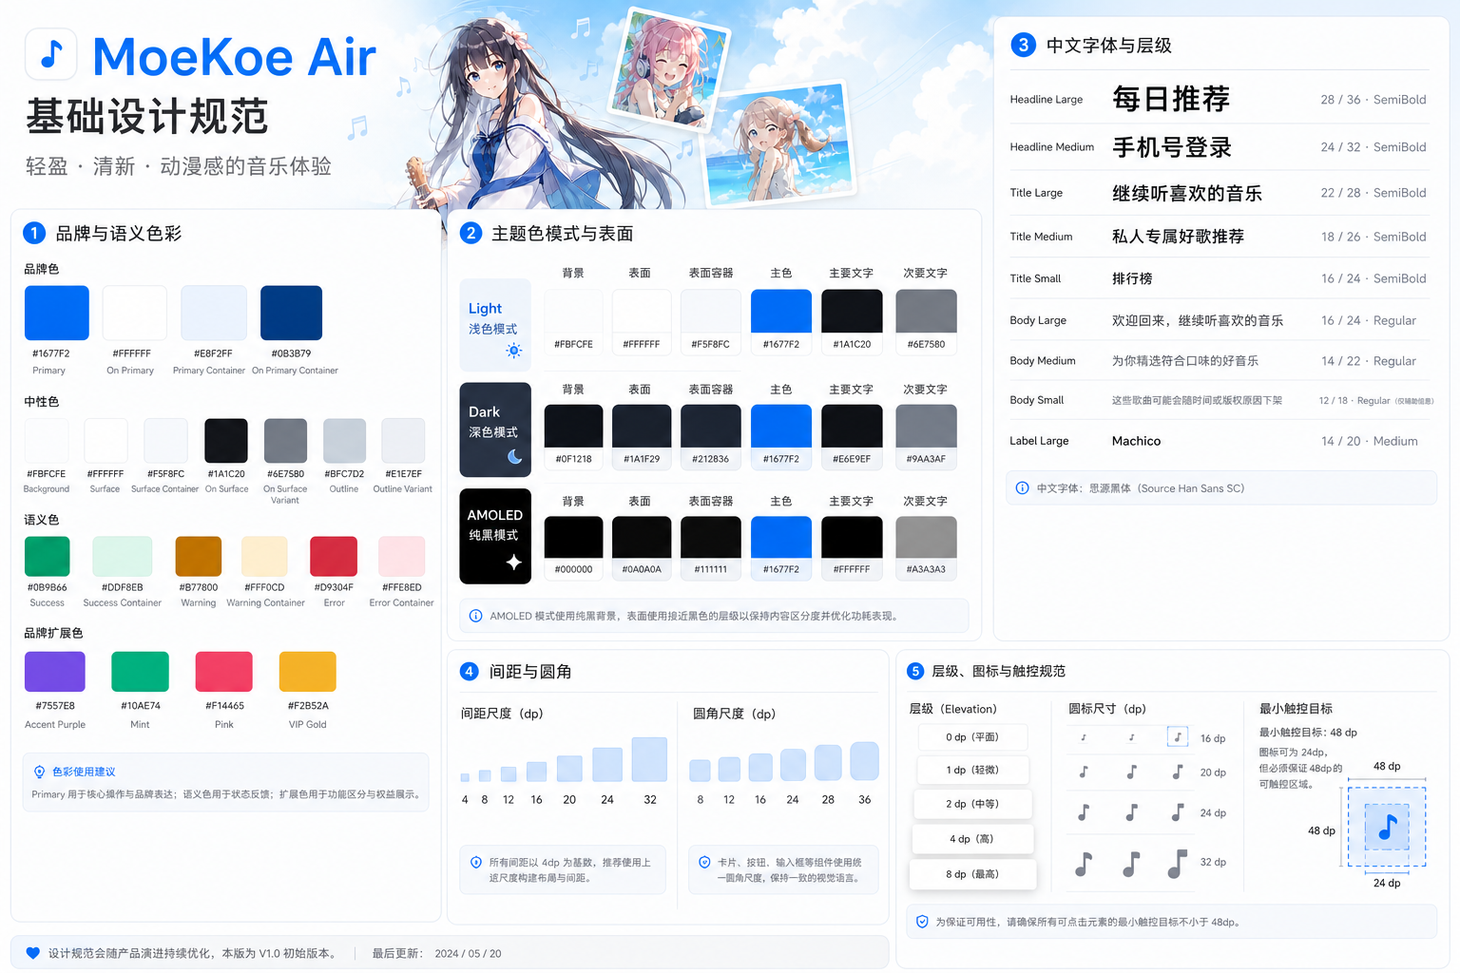
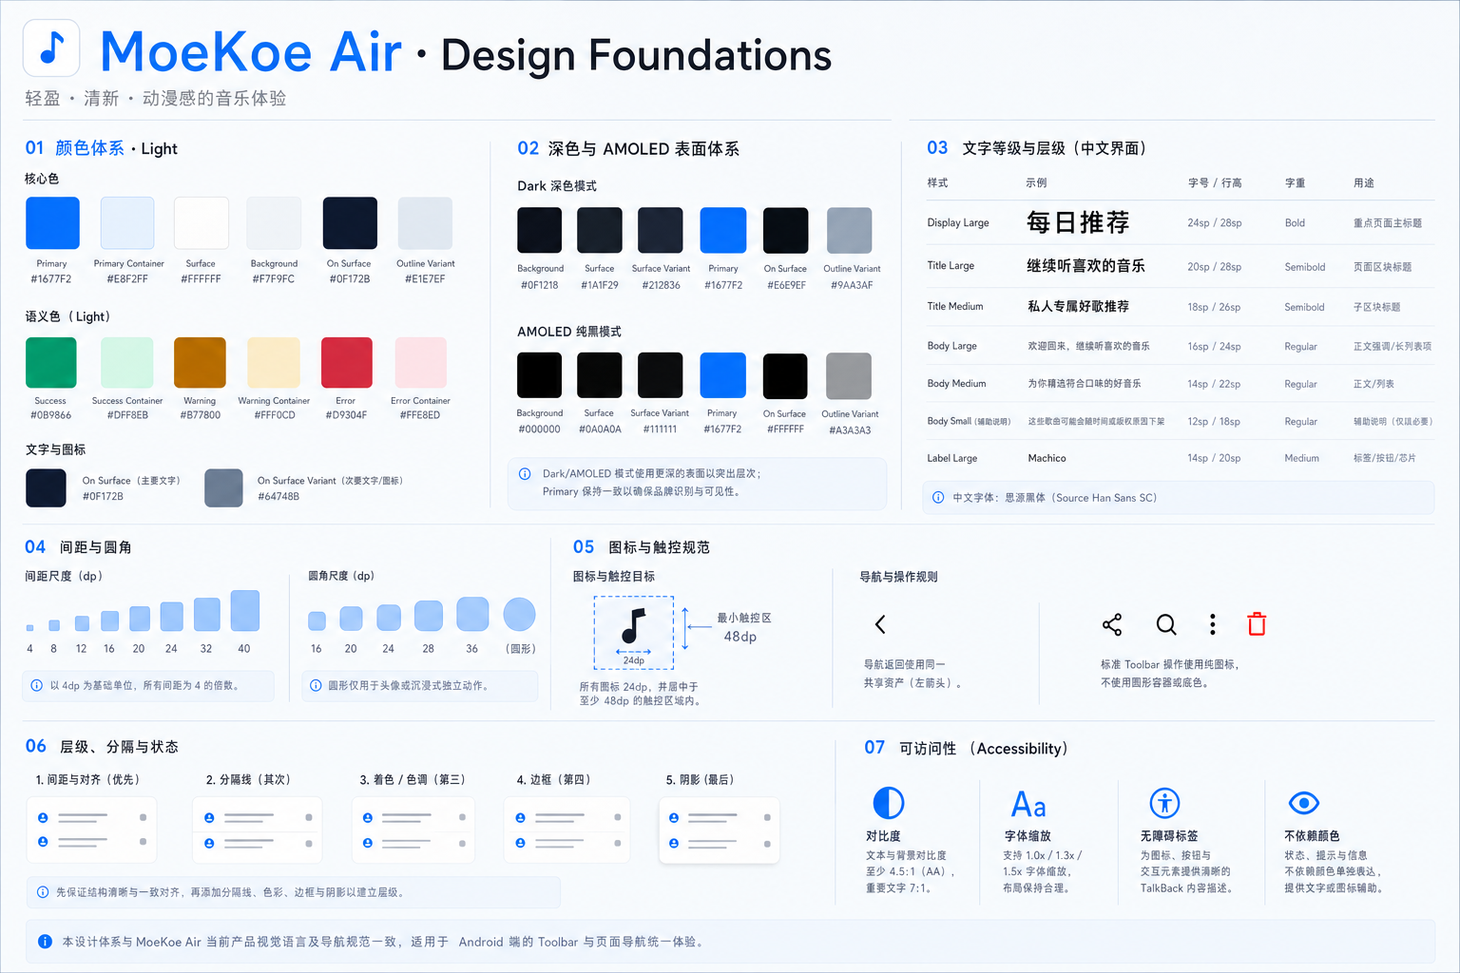
docs(design): promote refreshed system baselines

diff --git a/docs/DESIGN_SYSTEM.md b/docs/DESIGN_SYSTEM.md
@@ -1,20 +1,19 @@
 # MoeKoe Air Design System
 
-状态：第一版视觉方向已确认；Toolbar 与 `09`、`14` 至 `18` 的修订候选稿待确认。确认日期：2026-08-05；Toolbar 规范修订日期：2026-08-07。
+状态：第一版视觉方向，以及 `09`、`14` 至 `18` 的修订稿均已确认。初次确认日期：2026-08-05；本轮修订确认日期：2026-08-07。
 
 本文是颜色语义、交互状态、无障碍下限和通用组件行为的真值。已确认页面设计图是该页面结构、坐标、视觉尺寸比例、间距、圆角、层级和裁切的真值；页面专属几何必须按页面适配契约测量和映射，不能用通用 Token 或实现者经验覆盖。设计稿中的自动生成文字、日期和业务数据仍不是真值。
 
 公共组件的当前清单见 [`UI_COMPONENT_CATALOG.md`](UI_COMPONENT_CATALOG.md)，准入、所有权与迁移依据见 [`reference-audits/17-design-system-components.md`](reference-audits/17-design-system-components.md)。
 
-当前已确认的标准 Toolbar 视觉基准为 [`10-user-profile.png`](design/mockups/10-user-profile.png)。旧 `09`、`14` 至 `18` 暂停作为实现基线，修订候选稿见 [`design-system-v2`](design/mockups/candidates/design-system-v2/README.md)；用户确认前不得用候选稿反向修改 Compose。
+当前已确认的标准 Toolbar 视觉基准为 [`10-user-profile.png`](design/mockups/10-user-profile.png)，设置与通用组件正式基线为 `09`、`14` 至 `18`：
 
-修订候选视觉参考：
-
-- [`14-design-foundations-v2.png`](design/mockups/candidates/design-system-v2/14-design-foundations-v2.png)
-- [`15-toolbar-navigation-v2.png`](design/mockups/candidates/design-system-v2/15-toolbar-navigation-v2.png)
-- [`16-actions-inputs-v2.png`](design/mockups/candidates/design-system-v2/16-actions-inputs-v2.png)
-- [`17-music-content-components-v2.png`](design/mockups/candidates/design-system-v2/17-music-content-components-v2.png)
-- [`18-mobile-states-overlays-v2.png`](design/mockups/candidates/design-system-v2/18-mobile-states-overlays-v2.png)
+- [`09-settings.png`](design/mockups/09-settings.png)
+- [`14-design-foundations.png`](design/mockups/14-design-foundations.png)
+- [`15-toolbar-navigation.png`](design/mockups/15-toolbar-navigation.png)
+- [`16-actions-inputs.png`](design/mockups/16-actions-inputs.png)
+- [`17-music-content-components.png`](design/mockups/17-music-content-components.png)
+- [`18-mobile-states-overlays.png`](design/mockups/18-mobile-states-overlays.png)
 
 ## 设计原则
 
@@ -176,7 +175,7 @@
 
 `10-user-profile.png` 是标准 Toolbar 的坐标与视觉母版：设计图保留顶部系统安全区留白，但不自行绘制时间、信号、Wi-Fi 或电池图形；运行时系统栏仍由 Android 绘制。无尾部操作的设置页沿用同一标题基线、左侧 Chevron 锚点和内容起点，只把尾部操作替换为对称空槽。返回图形必须使用共享 `MoeNavigateBackIcon` 的无横杆圆端 Chevron，不得换成带水平箭杆的 Material ArrowBack。
 
-设置页候选稿采用固定宽度、内容驱动高度的完整展开画布：宽度用于建立横向设计坐标，高度随全部设置分组自然增长，用来表达页面可纵向滚动，不代表某台设备的固定视口。不得为了把全部内容塞进一屏而压缩下方分组或单个 Item。运行时标准 Toolbar 处理自身 Insets，设置内容由一个纵向滚动容器承载；短视口只改变可见范围，不改变 Item 密度。
+设置页正式设计稿采用固定宽度、内容驱动高度的完整展开画布：宽度用于建立横向设计坐标，高度随全部设置分组自然增长，用来表达页面可纵向滚动，不代表某台设备的固定视口。不得为了把全部内容塞进一屏而压缩下方分组或单个 Item。运行时标准 Toolbar 处理自身 Insets，设置内容由一个纵向滚动容器承载；短视口只改变可见范围，不改变 Item 密度。
 
 ### 底部结构
 
@@ -228,7 +227,7 @@ Dialog、Snackbar 和 Toast 的完整语义规则见 [`UI_COMPONENTS.md`](UI_COM
 - Typography 已补齐 `24sp`、`18sp`、`titleSmall`、`bodySmall` 等层级。
 - Spacing 已补齐 `12dp`、`20dp` 和 `40dp`，并保留旧属性兼容现有页面。
 - Shapes 已增加 `36dp` Hero 语义，图标、触控、输入、Toolbar、MiniPlayer 和底部导航尺寸已建立 Token。
-- 已有标准 Toolbar、沉浸式 Toolbar 和沉浸式 IconButton 实现，但现有标准 Toolbar 仍是 Material 默认起始对齐标题，且导航入口只支持返回；在 `design-system-v2` 候选稿确认前不扩散使用，确认后需增加调用方自定义导航图标能力并改为页面中心锚定标题。搜索、折叠和多选 Toolbar 在真实消费者接入时继续完成。
+- 已有标准 Toolbar、沉浸式 Toolbar 和沉浸式 IconButton 实现，但现有标准 Toolbar 仍是 Material 默认起始对齐标题，且导航入口只支持返回；下一公共组件切片需按已确认 `15-toolbar-navigation.png` 增加调用方自定义导航图标能力并改为页面中心锚定标题。搜索、折叠和多选 Toolbar 在真实消费者接入时继续完成。
 - 已建立 `MoeSectionHeader`、`MoeArtwork`、`MoeMediaBadge`、`MoeSongRow`、`MoeMiniPlayer` 与 `MoeQueueRow`；搜索、本地音乐和应用播放壳已经消费同一套组件。
 - 歌曲行在 `1.5×` 字体下增加行高并将时长并入副标题行，避免标题、时长和尾部操作互相覆盖；浅色、深色与大字体截图基准已通过。
 - Button、TextField、标准/沉浸式 Toolbar、标准 Dialog 外壳与双操作区已进入 `:core:designsystem`；标准 Toolbar 和 Dialog 已有多个真实页面消费者。Snackbar Host、Input Dialog、Bottom Sheet、MoeToast 和页面状态组件继续随真实消费者落地，不预先建立万能 API。队列拖拽属于播放器后续切片。

diff --git a/docs/DEVELOPMENT_PLAN.md b/docs/DEVELOPMENT_PLAN.md
@@ -52,7 +52,7 @@
 
 ## UI 实现基线
 
-以下设计稿是第一版实现基线，旧稿仅保留讨论记录。标记为“待确认”的 `design-system-v2` 项目是本轮替换候选，确认前不得驱动 Compose 改造：
+以下设计稿是第一版实现基线，旧稿仅保留讨论记录；`09` 与 `14` 至 `18` 的修订稿已于 2026-08-07 确认并替换正式文件：
 
 | 页面 | 验收设计稿 | 关键约束 |
 | --- | --- | --- |
@@ -64,16 +64,16 @@
 | 播放封面 | [`06-player-cover.png`](design/mockups/06-player-cover.png) | 参考 Kreate 的沉浸氛围，不照搬其品牌元素 |
 | 播放歌词 | [`07-player-lyrics.png`](design/mockups/07-player-lyrics.png) | 与封面共享手势和播放控制 |
 | 播放队列 | [`08-player-queue.png`](design/mockups/08-player-queue.png) | 手机使用 Material 3 Bottom Sheet |
-| 设置 | [`design-system-v2/09-settings-v2.png`](design/mockups/candidates/design-system-v2/09-settings-v2.png)（待确认） | 内容沿用分组式可滚动设置页；Toolbar 以 `10-user-profile` 为基准居中；长画布不压缩下方 Item |
+| 设置 | [`09-settings.png`](design/mockups/09-settings.png) | 内容沿用分组式可滚动设置页；Toolbar 以 `10-user-profile` 为基准居中；长画布不压缩下方 Item |
 | 用户主页 | [`10-user-profile.png`](design/mockups/10-user-profile.png) | 与“我的”分离，不重复工具入口 |
 | Dialog | [`11-dialog-components.png`](design/mockups/11-dialog-components.png) | 统一形状、操作顺序和遮罩 |
 | 反馈组件 | [`12-feedback-components-v2.png`](design/mockups/12-feedback-components-v2.png) | 自定义 Snackbar、受限 MoeToast |
 | 登录主状态 | [`13-login-phone-immersive.png`](design/mockups/13-login-phone-immersive.png) | 沉浸式顶部；无重复标题；三种登录方式共享表单结构 |
-| 基础 Token | [`14-design-foundations-v2.png`](design/mockups/candidates/design-system-v2/14-design-foundations-v2.png)（待确认） | 数值仍以 `DESIGN_SYSTEM.md` 为准 |
-| Toolbar 与导航 | [`15-toolbar-navigation-v2.png`](design/mockups/candidates/design-system-v2/15-toolbar-navigation-v2.png)（待确认） | 标准态页面中心标题、可替换导航图标；沉浸式仅作 Hero/封面例外 |
-| 操作与输入 | [`16-actions-inputs-v2.png`](design/mockups/candidates/design-system-v2/16-actions-inputs-v2.png)（待确认） | Material Icons 优先；Filled 禁用态与登录确认稿一致；输入图标可见方形背景不填满输入框高度 |
-| 音乐内容组件 | [`17-music-content-components-v2.png`](design/mockups/candidates/design-system-v2/17-music-content-components-v2.png)（待确认） | 保持紧凑列表与连续 MiniPlayer，不将所有内容卡片化 |
-| 页面状态与覆盖层 | [`18-mobile-states-overlays-v2.png`](design/mockups/candidates/design-system-v2/18-mobile-states-overlays-v2.png)（待确认） | 系统居中白色 Dialog、Tonal 取消与贴底 Bottom Sheet |
+| 基础 Token | [`14-design-foundations.png`](design/mockups/14-design-foundations.png) | 数值仍以 `DESIGN_SYSTEM.md` 为准 |
+| Toolbar 与导航 | [`15-toolbar-navigation.png`](design/mockups/15-toolbar-navigation.png) | 标准态页面中心标题、可替换导航图标；沉浸式仅作 Hero/封面例外 |
+| 操作与输入 | [`16-actions-inputs.png`](design/mockups/16-actions-inputs.png) | Material Icons 优先；Filled 禁用态与登录确认稿一致；输入图标可见方形背景不填满输入框高度 |
+| 音乐内容组件 | [`17-music-content-components.png`](design/mockups/17-music-content-components.png) | 保持紧凑列表与连续 MiniPlayer，不将所有内容卡片化 |
+| 页面状态与覆盖层 | [`18-mobile-states-overlays.png`](design/mockups/18-mobile-states-overlays.png) | 系统居中白色 Dialog、Tonal 取消与贴底 Bottom Sheet |
 | 密码登录与风控 | [`login-v2` 已确认稿](design/mockups/candidates/login-v2/README.md#19--密码登录) | 凭据错误内联，风险确认使用居中 Dialog |
 | 扫码登录状态 | [`login-v2` 已确认稿](design/mockups/candidates/login-v2/README.md#20--扫码登录) | 生成、等待、已扫码、过期和失败分别建模 |
 | 登录安全验证 | [`login-v2` 已确认稿](design/mockups/candidates/login-v2/README.md#21--风险验证) | 短信 Dialog 与隔离腾讯验证保持安全边界 |

diff --git a/docs/design/mockups/README.md b/docs/design/mockups/README.md
@@ -19,16 +19,16 @@
 6. [`06-player-cover.png`](06-player-cover.png)：Kreate 启发的封面播放器。
 7. [`07-player-lyrics.png`](07-player-lyrics.png)：逐字歌词、翻译和音译展示基准。
 8. [`08-player-queue.png`](08-player-queue.png)：播放队列 Bottom Sheet。
-9. [`09-settings.png`](09-settings.png)：旧 Toolbar 版本，已暂停实现基线资格；修订稿见 [`design-system-v2`](candidates/design-system-v2/README.md)。
+9. [`09-settings.png`](09-settings.png)：已确认的分组式可滚动设置页，使用标准 Toolbar 与等高设置 Item。
 10. [`10-user-profile.png`](10-user-profile.png)：独立用户主页、社交统计、听歌概览和公开创建歌单。
 11. [`11-dialog-components.png`](11-dialog-components.png)：确认、提示、危险操作和文本输入 Dialog。
 12. [`12-feedback-components-v2.png`](12-feedback-components-v2.png)：品牌化 MoeSnackbar、应用内 MoeToast 与系统 Toast 边界。
 13. [`13-login-phone-immersive.png`](13-login-phone-immersive.png)：沉浸式手机号验证码登录主状态；密码、扫码和安全验证沿用同一视觉结构。
-14. [`14-design-foundations.png`](14-design-foundations.png)：旧版基础图板，已暂停实现基线资格；修订稿见 [`design-system-v2`](candidates/design-system-v2/README.md)。
-15. [`15-toolbar-navigation.png`](15-toolbar-navigation.png)：旧版 Toolbar 图板，已暂停实现基线资格；标准 Toolbar 当前以 [`10-user-profile.png`](10-user-profile.png) 为已确认基准。
-16. [`16-actions-inputs.png`](16-actions-inputs.png)：旧版操作图板，未包含已确认的 Filled 禁用态，已暂停实现基线资格。
-17. [`17-music-content-components.png`](17-music-content-components.png)：旧版音乐组件图板，修订稿待确认；现有已落地组件行为不因此回退。
-18. [`18-mobile-states-overlays.png`](18-mobile-states-overlays.png)：旧版覆盖层图板，未包含最新 Dialog 决策，已暂停实现基线资格。
+14. [`14-design-foundations.png`](14-design-foundations.png)：已确认的颜色、排版、间距、形状与层级图板。
+15. [`15-toolbar-navigation.png`](15-toolbar-navigation.png)：已确认的 Toolbar 与导航图板；标准态同时以 [`10-user-profile.png`](10-user-profile.png) 校准。
+16. [`16-actions-inputs.png`](16-actions-inputs.png)：已确认的操作与输入图板，包含登录输入图标和 Filled 禁用态。
+17. [`17-music-content-components.png`](17-music-content-components.png)：已确认的音乐内容组件图板；现有已落地组件行为继续有效。
+18. [`18-mobile-states-overlays.png`](18-mobile-states-overlays.png)：已确认的页面状态与覆盖层图板；Dialog 以登录页完成实现为视觉母版。
 19. [`19-login-password-states.png`](19-login-password-states.png)：旧版横向状态总览，仅保留设计演进记录。
 20. [`20-login-qr-states.png`](20-login-qr-states.png)：旧版横向状态总览，仅保留设计演进记录。
 21. [`21-login-risk-verification.png`](21-login-risk-verification.png)：旧版横向状态总览，仅保留设计演进记录。
@@ -53,7 +53,7 @@
 5. 只有滚动吸附、转场、手势、响应式重排或复杂跨状态交互仍存在静态图无法回答的问题时，才基于已确认设计图制作最小原型；原型不能先于设计图、不能替代设计确认，也不能改变视觉尺寸。
 6. 若制作原型，将验证结论和组件行为同步到文档后再实现对应交互；没有原型需求时直接按确认稿、适配契约和 Design System 落地。
 
-`09` 与 `14` 至 `18` 因 Toolbar、按钮禁用态和 Dialog 决策变化，于 2026-08-07 暂停实现基线资格。修订候选稿位于 [`candidates/design-system-v2`](candidates/design-system-v2/README.md)，用户确认后才能替换正式文件并驱动公共组件改造；其他已确认图片继续按既定阶段顺序实现。
+`09` 与 `14` 至 `18` 曾因 Toolbar、按钮禁用态和 Dialog 决策变化暂停实现资格；修订稿已于 2026-08-07 获得用户确认并替换正式文件。对应 [`candidates/design-system-v2`](candidates/design-system-v2/README.md) 仅保留确认过程与反馈记录，公共组件改造以正式文件为准。
 
 ## 使用方式
 

diff --git a/README.md b/README.md
@@ -18,9 +18,9 @@ MoeKoeMusic Mobile V2 是 MoeKoeMusic 的 Android 原生实现，计划使用 Ko
 - 使用 Media3 `MediaLibraryService` 管理播放生命周期与系统媒体集成。
 - 第一版以 PC 端功能对齐为目标，但交互和布局遵循 Android 平台习惯。
 - Application ID 为 `cn.james.music`，最低支持 API 26，compile/target SDK 为 API 36。
-- 第一版 UI 视觉语言与核心页面设计稿已经确认；`09` 与 `14` 至 `18` 正在按 `10-user-profile` 的标准 Toolbar 和最新按钮/Dialog 决策修订，候选稿确认前不驱动 Compose 改造。
-- 登录主状态 `13`、新版密码/扫码/安全验证/多账号独立单状态图，以及 `10-user-profile` 的标准 Toolbar 样式均为已确认基线；旧 `19` 至 `22` 横向总览稿仅保留设计演进记录，`14` 至 `18` 通用图板修订候选待确认。登录协议、状态机、腾讯隔离容器、ZXing 渲染和生命周期轮询已经落地，现有 Compose 登录布局需直接按已确认单状态图返工；历史原型和既有真机结果只证明对应交互或协议行为，不证明新版视觉合规。
-- 音乐内容组件已基于原 `17-music-content-components.png` 接入搜索、本地音乐、MiniPlayer 和队列；浅色、深色、`1.5×` 字体截图及 ELE-AL00 / API 29 真机回归已通过。`17` 修订候选只校准视觉规范，不撤销这些既有行为证据。
+- 第一版 UI 视觉语言与核心页面设计稿已经确认；`09` 与 `14` 至 `18` 已于 2026-08-07 按 `10-user-profile` 的标准 Toolbar、登录输入框和最新按钮/Dialog 决策完成修订并晋级正式基线。
+- 登录主状态 `13`、新版密码/扫码/安全验证/多账号独立单状态图，以及 `10-user-profile` 的标准 Toolbar 样式均为已确认基线；旧 `19` 至 `22` 横向总览稿仅保留设计演进记录。登录协议、状态机、腾讯隔离容器、ZXing 渲染和生命周期轮询已经落地，现有 Compose 登录布局需直接按已确认单状态图返工；历史原型和既有真机结果只证明对应交互或协议行为，不证明新版视觉合规。
+- 音乐内容组件已基于 `17-music-content-components.png` 接入搜索、本地音乐、MiniPlayer 和队列；浅色、深色、`1.5×` 字体截图及 ELE-AL00 / API 29 真机回归已通过。本轮图板修订只校准视觉规范，不撤销这些既有行为证据。
 - 本地音乐统一复制导入；外部“打开方式”在导入成功后立即播放。
 
 ## 本地构建

diff --git a/docs/plans/03-kugou-online-slice.md b/docs/plans/03-kugou-online-slice.md
@@ -112,7 +112,7 @@ interface SearchRepository {
 - 已保留上游 MIT NOTICE 与完整许可证。
 - 播放源不再用 `null` 抹平失败：无版权、VIP、离线、超时、连接、风控、登录要求、服务、协议、会话初始化和无效来源均映射为稳定的 `PlaybackSourceError`；首次 `playNow` 在入队前完成解析，失败会同步返回类型化拒绝。
 - Media3 遇到酷狗在线源的 HTTP/网络 IO 错误时，会对当前歌曲显式重新解析地址一次；同一错误链再次失败不会继续刷新，本地源和解码错误不会触发网络解析。队列中已存在的同歌曲也会替换为新解析 URI，短期地址仍不写入 Room。
-- `:core:designsystem` 已按确认稿 `12-feedback-components-v2.png` 与 `UI_COMPONENTS.md` 实现 `MoeSnackbar` 的成功、信息、错误和警告状态；旧 `18-mobile-states-overlays.png` 已暂停实现基线资格，但不撤销该行为证据。App 根层在 MiniPlayer 上方显示单条播放反馈，可恢复错误提供一个“重试”动作，4 秒后按事件 id 安全收起。
+- `:core:designsystem` 已按确认稿 `12-feedback-components-v2.png` 与 `UI_COMPONENTS.md` 实现 `MoeSnackbar` 的成功、信息、错误和警告状态；修订后的 `18-mobile-states-overlays.png` 已于 2026-08-07 替换正式基线，且不撤销既有行为证据。App 根层在 MiniPlayer 上方显示单条播放反馈，可恢复错误提供一个“重试”动作，4 秒后按事件 id 安全收起。
 - `KugouPlaybackSourceResolverTest`、`PlaybackAddressRefreshPolicyTest` 和 `AppPlaybackViewModelTest` 覆盖类型映射、一次刷新、非网络错误豁免、重试与旧反馈隔离；`MoeSnackbarScreenshotTest` 已生成并通过 390dp 浅色截图基准。
 - 2026-08-05 在 Huawei ELE-AL00 / Android 10（API 29）安装最新 Debug 包，真实搜索 `Linkin Park` 后播放 `Numb`：MiniPlayer 显示“暂停”，系统媒体会话为 Playing、`error=null`，位置从约 2.9 秒增长到约 12.0 秒，证明预解析未破坏在线播放闭环。
 - 同一设备完整执行 `MainActivityTest`，6/6 通过且无跳过，覆盖根层反馈接入后的首页、搜索返回栈、我的、本地音乐、登录、密码登录和 QR 登录导航回归。

diff --git a/docs/UI_DESIGN_BRIEF.md b/docs/UI_DESIGN_BRIEF.md
@@ -134,7 +134,7 @@
 - 登录主状态：`13-login-phone-immersive.png`。
 - 登录密码、扫码、安全验证与多账号旧补充稿 `19-login-password-states.png` 至 `22-login-multi-account.png` 已撤销实现基线资格；新版独立单状态图见 [`candidates/login-v2`](design/mockups/candidates/login-v2/README.md)，已经确认为唯一页面映射。既有本地交互原型只保留为历史状态流参考。
 - 全屏播放器：`06-player-cover.png`、`07-player-lyrics.png`、`08-player-queue.png`；视觉已确认，[`player-flow`](design/prototypes/player-flow/README.md) 只补充分页、歌词定位、退出与队列返回优先级。
-- Design System：`14-design-foundations.png` 至 `18-mobile-states-overlays.png` 的旧版实现资格已暂停；修订候选稿见 [`design-system-v2`](design/mockups/candidates/design-system-v2/README.md)，确认前标准 Toolbar 以 `10-user-profile.png` 为唯一视觉基准。
+- Design System：修订后的 `14-design-foundations.png` 至 `18-mobile-states-overlays.png` 已于 2026-08-07 晋级正式实现基线；标准 Toolbar 同时以 `10-user-profile.png` 校准页面坐标与视觉形态。
 
 同页面旧版本只保留设计过程，不作为视觉验收依据。完整映射与阶段安排见 [`DEVELOPMENT_PLAN.md`](DEVELOPMENT_PLAN.md)。
 

diff --git a/docs/design/mockups/candidates/design-system-v2/README.md b/docs/design/mockups/candidates/design-system-v2/README.md
@@ -1,6 +1,6 @@
 # Design System V2 候选稿
 
-状态：待用户确认，不具备 Compose 实现基线资格。
+状态：已于 2026-08-07 获得用户确认并晋级正式基线；本目录只保留确认过程记录。
 
 本组候选稿用于校准设置页与 Design System 图板。标准 Toolbar 统一以
 [`10-user-profile.png`](../../10-user-profile.png) 为视觉基准：标题相对完整页面居中，
@@ -15,8 +15,8 @@
 - `17-music-content-components-v2.png`
 - `18-mobile-states-overlays-v2.png`
 
-确认前不得覆盖现有正式图片；确认后在一个独立提交中替换正式基线、更新页面映射，
-再开始公共 Toolbar API 与页面消费者的 Compose 改造。
+本目录中的六张确认版本已经分别替换 `docs/design/mockups/09-settings.png` 与
+`14-design-foundations.png` 至 `18-mobile-states-overlays.png`；Compose 实现只引用正式路径。
 
 ## 2026-08-07 反馈修订
 

diff --git a/docs/design/assets/README.md b/docs/design/assets/README.md
@@ -18,7 +18,7 @@
 ## `icons/navigation-back.svg`
 
 - 状态：已确认设计的通用导航图标母版。
-- 来源：`13-login-phone-immersive.png` 与已确认的 `10-user-profile.png` 中一致的无横杆圆端 Chevron；旧 `15-toolbar-navigation.png` 不再作为 Toolbar 形态依据。
+- 来源：`13-login-phone-immersive.png`、`10-user-profile.png` 与 2026-08-07 修订确认的 `15-toolbar-navigation.png` 中一致的无横杆圆端 Chevron；`10` 校准标准页面坐标，`15` 定义公共 Toolbar 变体。
 - 语义：返回上一级导航；不是登录业务图标。
 - Android：由 `:core:designsystem` 的 `ic_moe_navigation_back.xml` 提供 VectorDrawable，并通过 `MoeNavigateBackIcon` 使用。
 - 约束：图形自动随 RTL 镜像；页面或 Toolbar 分别决定视觉尺寸、底板、位置和最小 `48dp` 触控区域，不复制或修改路径。

diff --git a/docs/UI_COMPONENTS.md b/docs/UI_COMPONENTS.md
@@ -6,7 +6,7 @@
 
 - [`11-dialog-components.png`](design/mockups/11-dialog-components.png)
 - [`12-feedback-components-v2.png`](design/mockups/12-feedback-components-v2.png)
-- [`18-mobile-states-overlays-v2.png`](design/mockups/candidates/design-system-v2/18-mobile-states-overlays-v2.png)（待确认；数值与行为仍以本文为准）
+- [`18-mobile-states-overlays.png`](design/mockups/18-mobile-states-overlays.png)（已确认；数值与行为仍以本文为准）
 - [`19d-password-risk-dialog.png`](design/mockups/candidates/login-v2/19d-password-risk-dialog.png)（已确认的普通确认型视觉母版）
 - [`21a-risk-sms-default.png`](design/mockups/candidates/login-v2/21a-risk-sms-default.png)（已确认的结构化输入型视觉母版）
 
